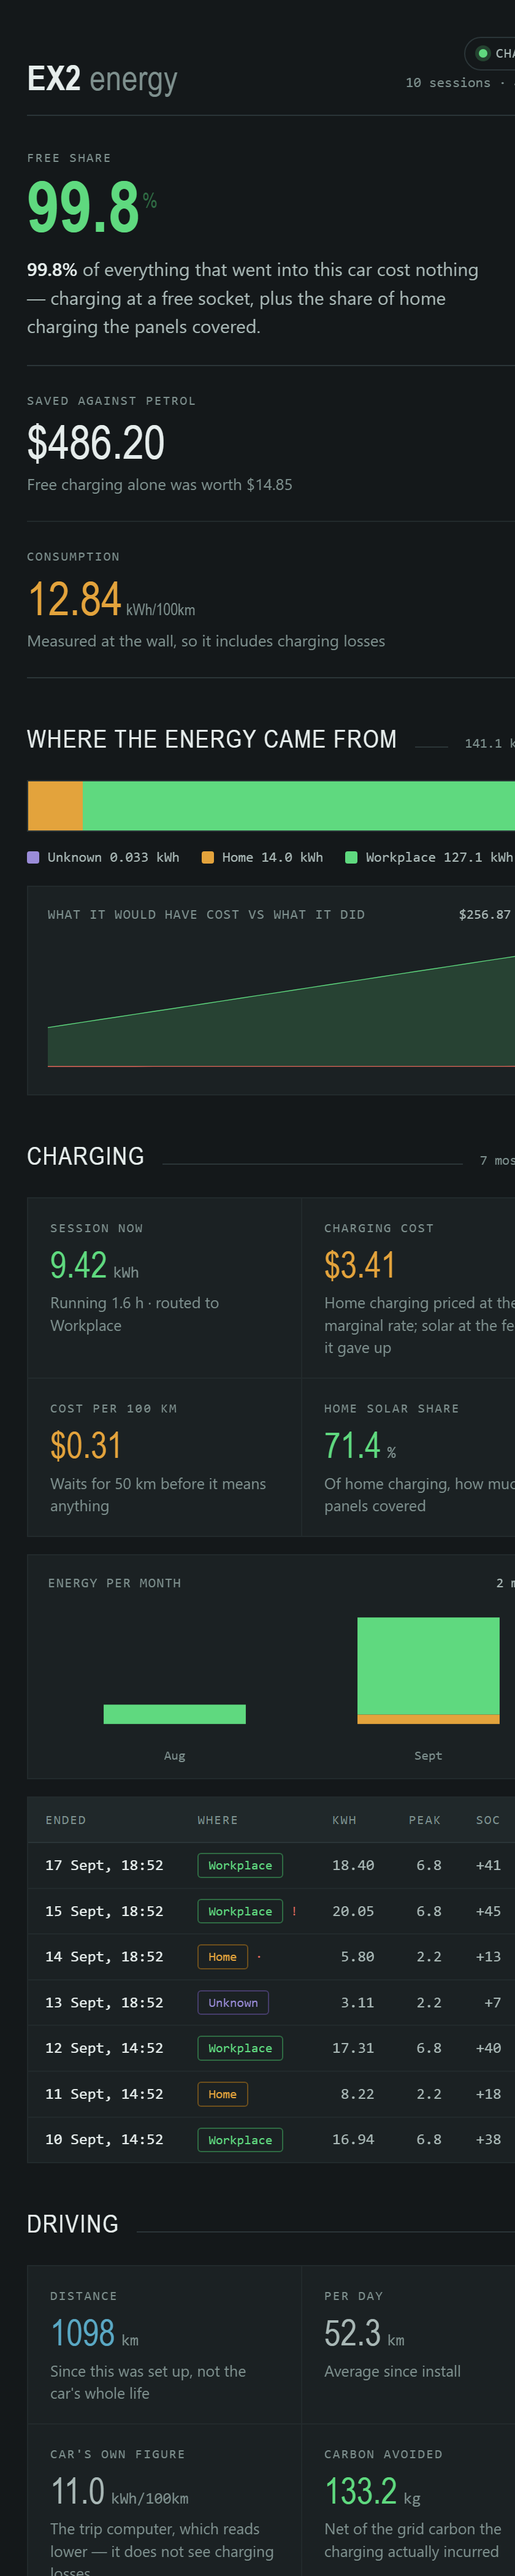
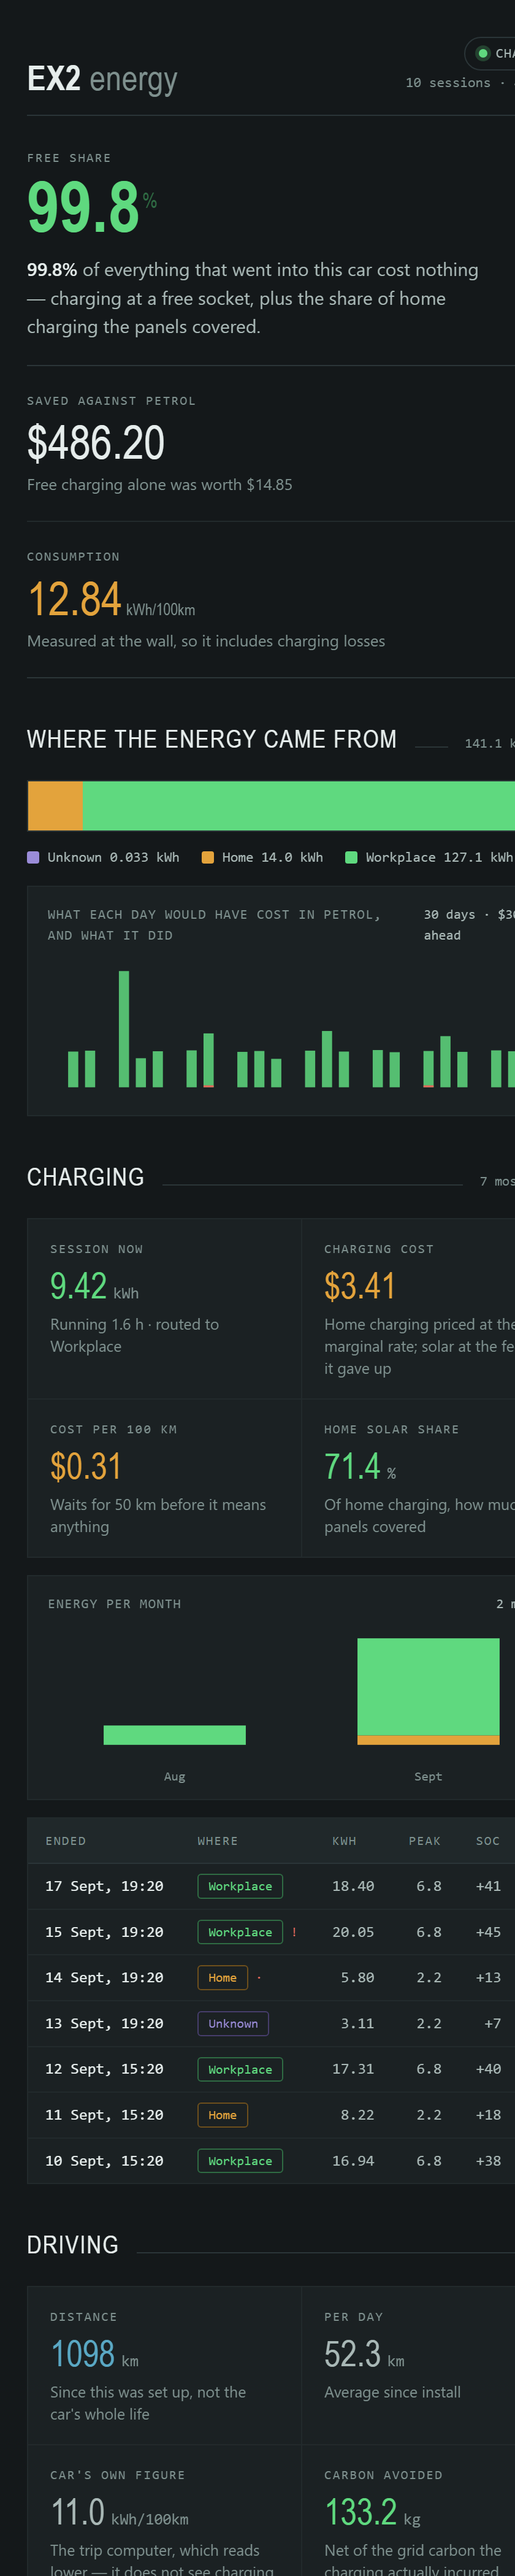
Money chart: per day over a rolling window, not two cumulative lines
Shane pushed back on this and was right: "over time it will just keep going
up". Two running totals answer "has the total got bigger" - which it always
has - rather than "is the rate holding", which is the question. The axis
grows without bound, early days compress to nothing, and the shape is the
same whether the economics improved or got worse. The lifetime figure is
already a tile.

Now each bar is a day's driving priced as petrol, with what was actually paid
drawn inside it, over a rolling 30 days. Bounded for ever.

The paid portion is deliberately not scaled up to be visible. On most days it
is a hairline, and that IS the finding - enlarging it to be legible would
overstate what charging costs.

The preview harness now models per-day change rather than a running total, so
the screenshots show what the chart actually does: some days no driving, one
long trip, two days where a home charge cost something.

Screenshots re-rendered. Same change landed in the YAML package's HTML page.

diff --git a/custom_components/ev_stats/panel/ev-stats-panel.js b/custom_components/ev_stats/panel/ev-stats-panel.js
@@ -272,7 +272,7 @@ class EvStatsPanel extends HTMLElement {
     const money = [e.petrol_cost_avoided, e.cost_total].filter(Boolean);
     const results = await Promise.all([
       buckets.length ? ask(buckets, ["change"], "month", 400) : {},
-      money.length === 2 ? ask(money, ["state"], "day", 30) : {},
+      money.length === 2 ? ask(money, ["change"], "day", 30) : {},
       src.battery ? ask([src.battery], ["mean"], "hour", 14) : {},
     ]);
     this._stats = { month: results[0], cost: results[1], soc: results[2] };
@@ -784,39 +784,45 @@ class EvStatsPanel extends HTMLElement {
     </figure>`;
   }
 
-  /* Money as an accumulating gap rather than two figures. The question is
-     about the distance between the lines, and that only reads as an answer
-     once you can watch it widen. */
+  /* What each day's driving would have cost in petrol, against what it did.
+     Per day over a rolling window, NOT two cumulative lines. Running totals
+     only ever rise, so the axis grows without bound, the early days compress
+     to nothing, and the shape is "line goes up" whether the economics got
+     better or worse. The lifetime total is a headline figure already. */
   _moneyChart() {
     const c = (this._stats || {}).cost || {};
     const e = this._car.entities;
-    const pts = (rows) =>
-      (rows || []).filter((r) => r.state != null).map((r) => [r.start, r.state]);
-    const P = pts(c[e.petrol_cost_avoided]);
-    const Q = pts(c[e.cost_total]);
-    if (P.length < 2) return "";
-    const max = Math.max(
-      ...P.map((p) => p[1]),
-      ...Q.map((p) => p[1]),
-      1
-    );
-    const t0 = P[0][0];
-    const span = Math.max(1, P[P.length - 1][0] - t0);
-    const X = (t) => (((t - t0) / span) * 100).toFixed(2);
-    const Y = (v) => (34 - (v / max) * 30).toFixed(2);
-    const path = (A) =>
-      A.map((p, i) => (i ? "L" : "M") + X(p[0]) + "," + Y(p[1])).join(" ");
-    const ahead = P[P.length - 1][1] - (Q.length ? Q[Q.length - 1][1] : 0);
-    const paid = Q.length > 1
-      ? `<path d="${path(Q)}" fill="none" stroke="var(--evs-alert)" stroke-width="0.7" vector-effect="non-scaling-stroke"/>`
-      : "";
+    const rows = (r) =>
+      (r || []).filter((x) => x.change != null).map((x) => [x.start, x.change]);
+    const A = rows(c[e.petrol_cost_avoided]);
+    const P = Object.fromEntries(rows(c[e.cost_total]));
+    if (A.length < 2) return "";
+    const max = Math.max(...A.map((p) => p[1]), 1);
+    const bw = 100 / A.length;
+    let body = "";
+    A.forEach((p, i) => {
+      const h = (p[1] / max) * 30;
+      body +=
+        '<rect x="' + (i * bw + bw * 0.2).toFixed(2) + '" y="' + (34 - h).toFixed(2) +
+        '" width="' + (bw * 0.6).toFixed(2) + '" height="' + h.toFixed(2) +
+        '" fill="var(--evs-free)" opacity=".85"/>';
+      /* What was actually paid, inside the bar. On most days a hairline, and
+         that IS the finding - scaling it up to be visible would overstate it. */
+      const paid = P[p[0]] || 0;
+      if (paid > 0.0005) {
+        const ph = Math.max(0.5, (paid / max) * 30);
+        body +=
+          '<rect x="' + (i * bw + bw * 0.2).toFixed(2) + '" y="' + (34 - ph).toFixed(2) +
+          '" width="' + (bw * 0.6).toFixed(2) + '" height="' + ph.toFixed(2) +
+          '" fill="var(--evs-alert)"/>';
+      }
+    });
+    const ta = A.reduce((a, b) => a + b[1], 0);
+    const tp = Object.values(P).reduce((a, b) => a + b, 0);
     return `<figure style="margin-top:14px">
-      <figcaption>What it would have cost vs what it did <em>${CURRENCY}${fmt(ahead, 2)} ahead</em></figcaption>
-      <svg viewBox="0 0 100 38" preserveAspectRatio="none" style="height:120px">
-        <path d="${path(P)} L100,34 L0,34 Z" fill="var(--evs-free)" opacity=".18"/>
-        <path d="${path(P)}" fill="none" stroke="var(--evs-free)" stroke-width="0.7" vector-effect="non-scaling-stroke"/>
-        ${paid}
-      </svg>
+      <figcaption>What each day would have cost in petrol, and what it did
+        <em>${A.length} days &middot; ${CURRENCY}${fmt(ta - tp, 2)} ahead</em></figcaption>
+      <svg viewBox="0 0 100 38" preserveAspectRatio="none" style="height:120px">${body}</svg>
     </figure>`;
   }
 

diff --git a/tools/preview.html b/tools/preview.html
@@ -163,8 +163,15 @@
   /* The gap widening: petrol avoided climbing steadily, electricity paid flat
      near zero, which is the whole point of the chart. */
   const costRows = since(30, DAY);
-  const petrolRows = costRows.map((t, i) => ({ start: t, state: +(86 + i * 5.9).toFixed(2) }));
-  const paidRows = costRows.map((t, i) => ({ start: t, state: +(i * 0.008).toFixed(3) }));
+    /* Per-day change now, not a running total: some days no driving at all,
+     one long trip, and a couple of home charges that actually cost something. */
+  const DRIVE = [0, 11.8, 12.1, 0, 38.4, 9.6, 11.9, 0, 12.2, 17.8, 0, 11.7, 12.0,
+                 9.4, 0, 12.1, 18.6, 11.8, 0, 12.3, 11.6, 0, 12.0, 16.9, 11.7,
+                 0, 12.2, 11.9, 13.4, 12.1];
+  const petrolRows = costRows.map((t, i) => ({ start: t, change: DRIVE[i % DRIVE.length] }));
+  const paidRows = costRows.map((t, i) => ({
+    start: t, change: i === 9 ? 0.14 : i === 22 ? 0.09 : 0,
+  }));
 
   const monthStart = (back) => {
     const d = new Date();
